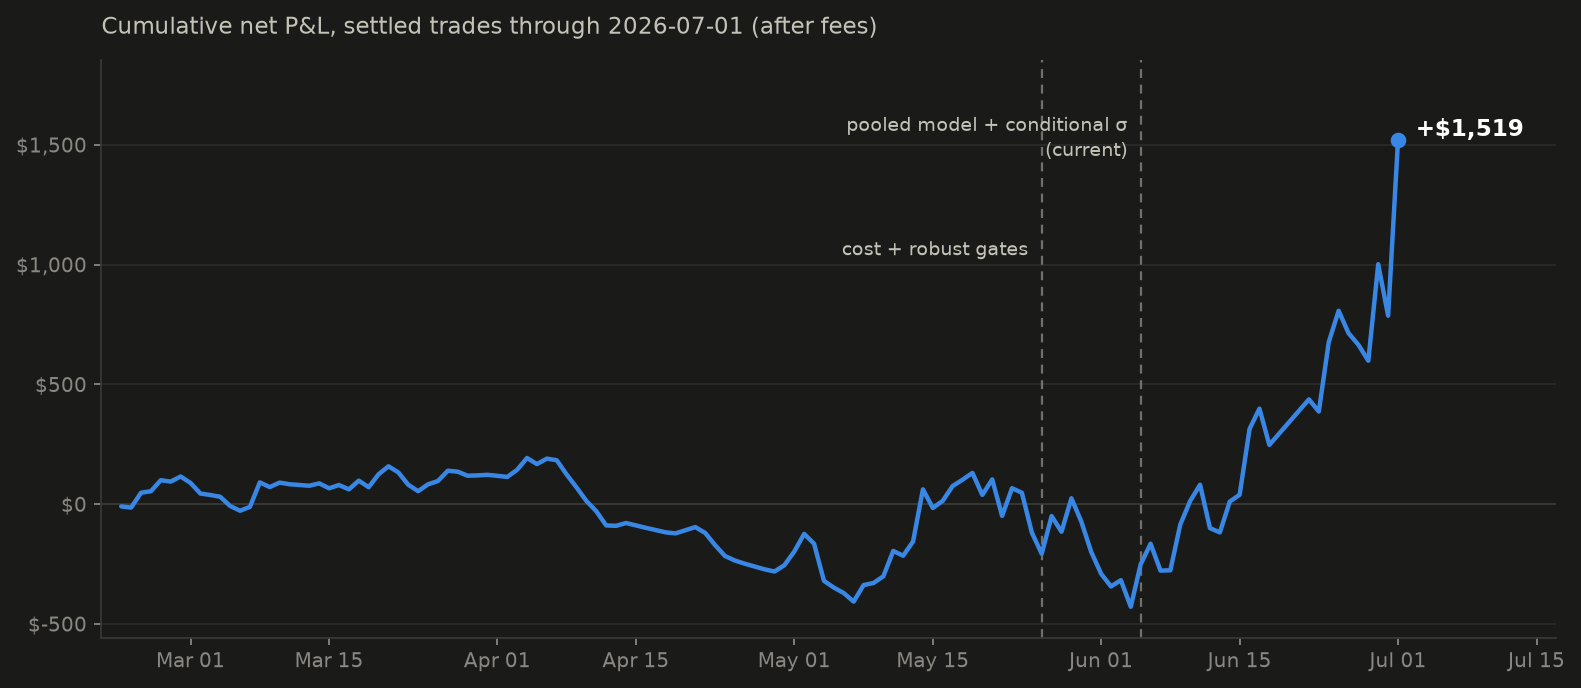
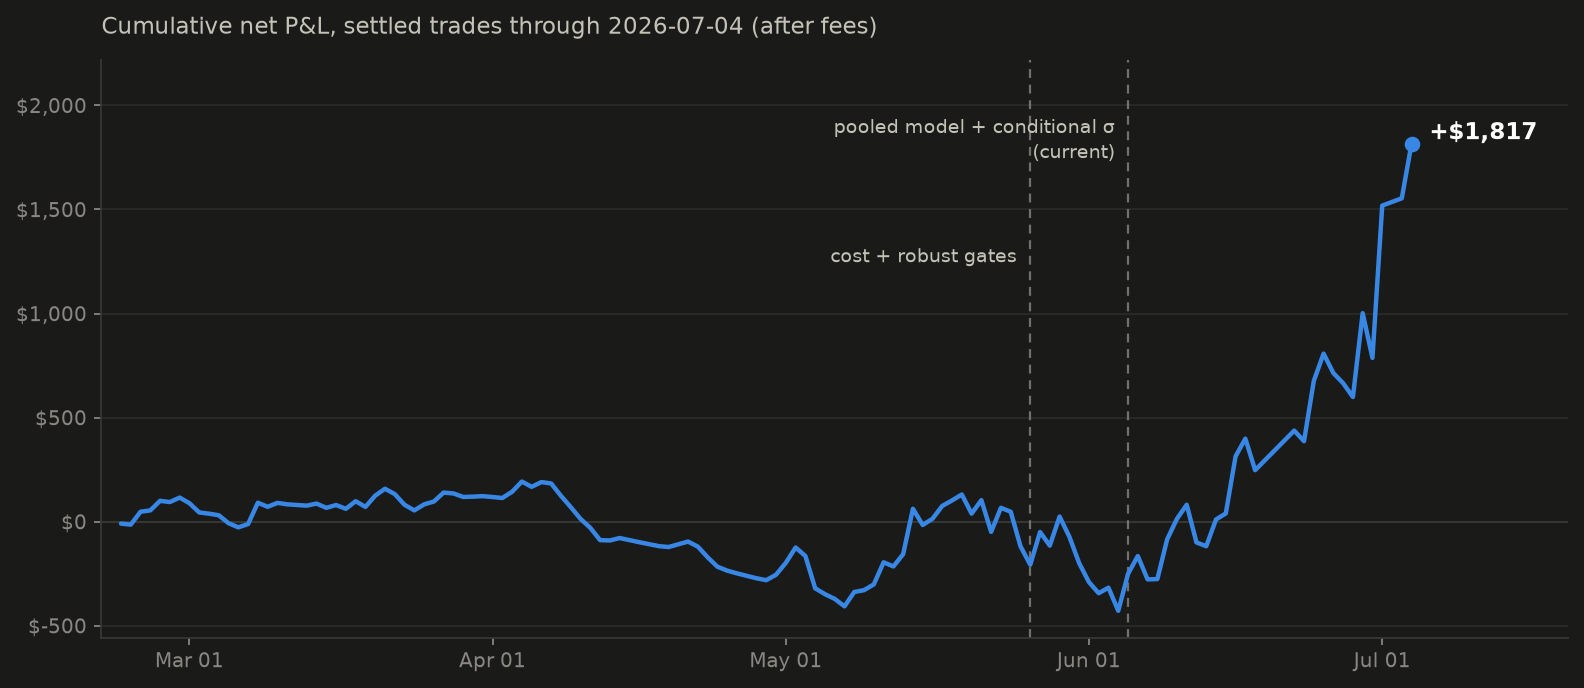
Data update

diff --git a/README.md b/README.md
@@ -4,19 +4,19 @@
 
 Kalshi's daily maximum-temperature markets systematically misprice forecast
 uncertainty. This repository documents a fully autonomous trading system built
-against that mispricing. Live since February 22, 2026. (Metrics as of July 3rd, 2026)
+against that mispricing. Live since February 22, 2026. (Metrics as of July 4th, 2026)
 
-Across 1,000+ settled trades, the system has a lifetime Sharpe of 2.0
+Across 1,000+ settled trades, the system has a lifetime Sharpe of 2.2
 (annualized from daily returns on deployed capital, net of fees). The current
-model version, deployed June 5, returned **+37.4% on deployed capital in its
+model version, deployed June 5, returned **+39.1% on deployed capital in its
 first month**, net of fees, and prices contracts measurably better than the
 market: **10.3% Brier skill** and **12× lower calibration error** against
-market-implied probabilities (details below).. 
+market-implied probabilities (details below).
 
 
 ## Live Trading Performance
 
-*Settled trades only, P&L net of Kalshi fees. Data as of 2026-07-03, refreshed routinely.*
+*Settled trades only, P&L net of Kalshi fees. Data as of 2026-07-04, refreshed routinely.*
 
 ### Performance Summary
 
@@ -31,17 +31,17 @@ data.
 
 | Metric | Lifetime (since Feb 22) | Current model (since Jun 5) |
 |---|---|---|
-| Settled trades | 1,014 | 179 |
-| Net P&L (after fees) | +$1,519 | +$1,947 |
-| Return on risk | +11.7% | **+37.4%** |
-| Win rate (settled) | 30.4% | 43.6% |
-| Avg win / avg loss | 2.7× | 2.1× |
-| Profit factor | 1.17 | 1.62 |
-| Sharpe (annualized) | 2.0 | 6.83 |
+| Settled trades | 1,038 | 203 |
+| Net P&L (after fees) | +$1,817 | +$2,245 |
+| Return on risk | +13.4% | **+39.1%** |
+| Win rate (settled) | 30.3% | 41.4% |
+| Avg win / avg loss | 2.7× | 2.3× |
+| Profit factor | 1.19 | 1.65 |
+| Sharpe (annualized) | 2.2 | — |
 
 *Sharpe is computed on daily returns over capital deployed that day, √365
 annualization; the current-model window is too short to annualize honestly.
-Lifetime fees paid: $488*
+Lifetime fees paid: $504*
 
 | Month | Settled | Net P&L | Win % |
 |---|---|---|---|
@@ -50,7 +50,7 @@ Lifetime fees paid: $488*
 | Apr | 245 | −$377 | 20.8% |
 | May | 296 | +$56 | 31.1% |
 | Jun | 189 | +$986 | 41.8% |
-| Jul | 9 | +$732 | 33.3% |
+| Jul | 33 | +$1,030 | 27.3% 
 
 These are capacity-constrained retail markets: absolute P&L is small by
 construction, and the system is judged on forecast quality, cost-aware